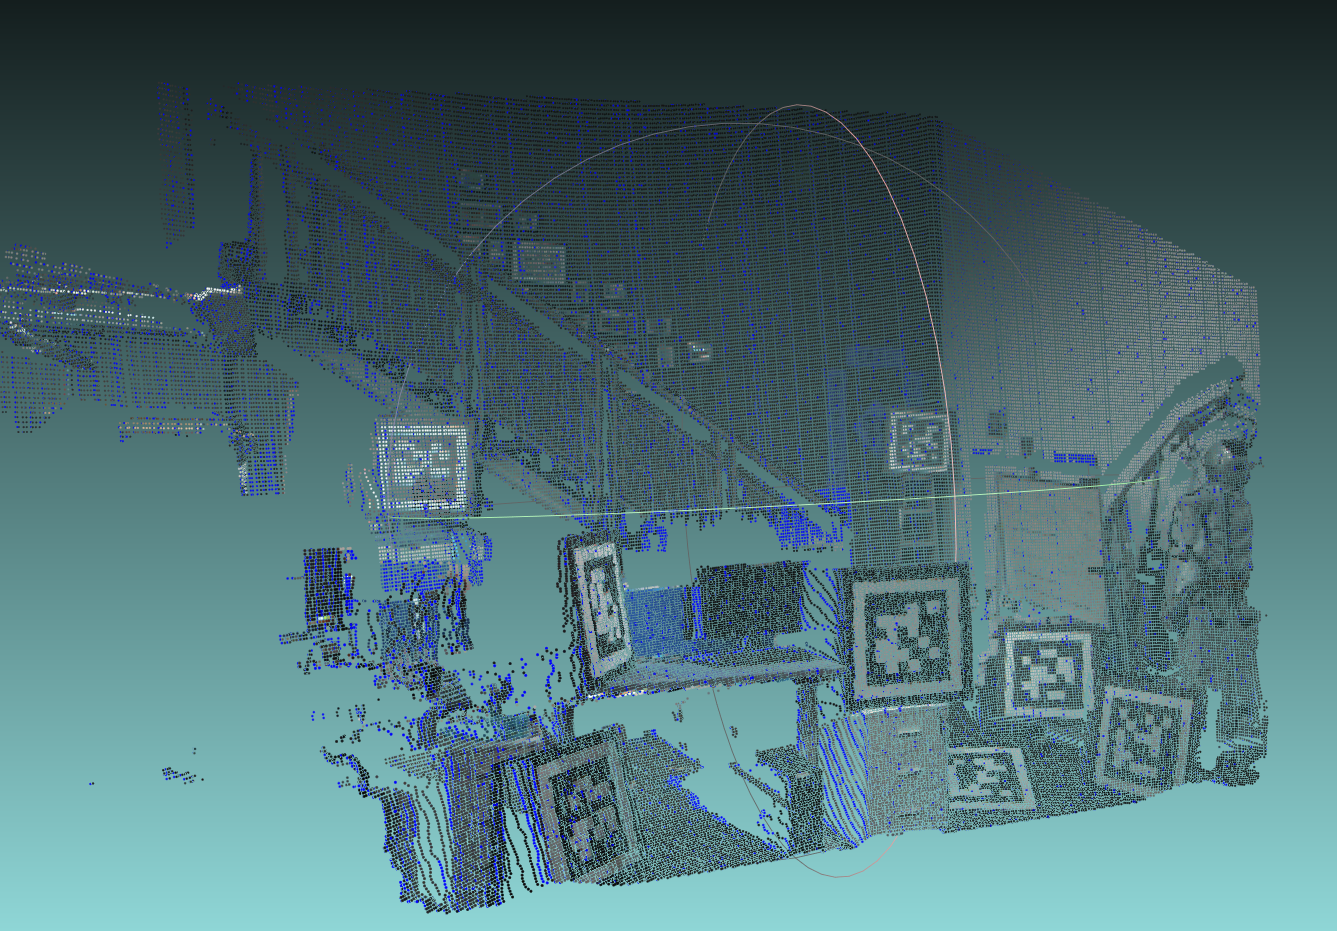
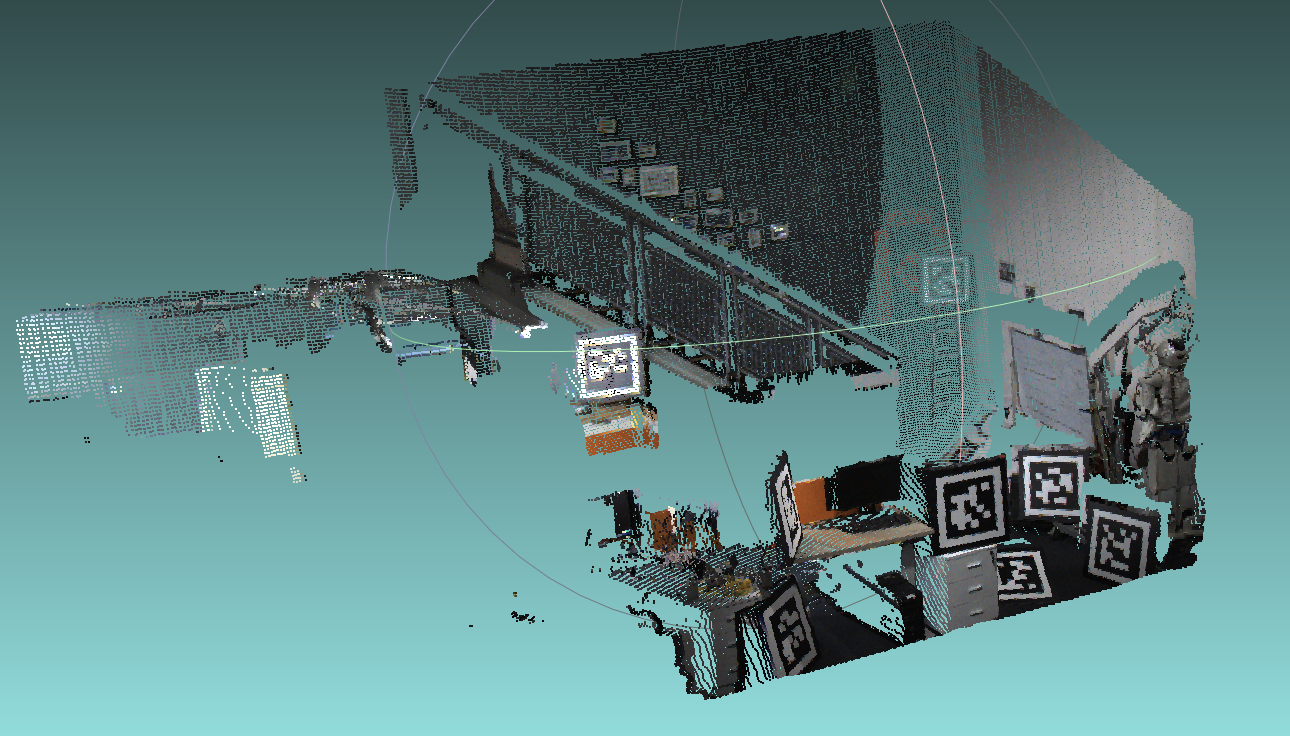
Update

diff --git a/README.md b/README.md
@@ -281,16 +281,6 @@ $codedir/texrecon/build/apps/texrecon/texrecon scene::undistorted surface-clean.
 
 
 
-#### 2021-1-4
-
-1.与长哥初步讨论论文中存在的一些语法问题
-
-	已经沟通玩
-
-2.新标定板到了,替换用新的标定板获得结果
-
-<img src="image/0104-1.png" alt="0104-1" style="zoom:25%;" />
-
 
 
 ### 核动力项目工作清单
@@ -299,7 +289,7 @@ $codedir/texrecon/build/apps/texrecon/texrecon scene::undistorted surface-clean.
 
 <img src="image/1229-3.png" alt="1229-3" style="zoom:25%;" />
 
-<img src="image/0104-2.png" alt="0104-2" style="zoom:25%;" />
+
 
 	目前标定板已经到,可以进行剩下部分的标定
 
@@ -314,4 +304,112 @@ $codedir/texrecon/build/apps/texrecon/texrecon scene::undistorted surface-clean.
 关于导航和定位模块,等核动力的小车底盘到位之后,再去迦智找人帮忙安装和测试相关的功能.
 
 等小车到位以后,硬件系统在小车的排线\安装等也需进一步考虑
+
+
+
+
+
+#### 2021-1-4
+
+1.与长哥初步讨论论文中存在的一些语法问题
+
+	已经沟通
+
+2.新标定板到了,替换用新的标定板获得结果
+
+<img src="image/0104-1.png" alt="0104-1" style="zoom:25%;" />
+
+单个激光的目前效果:
+
+<img src="image/0104-2.png" alt="0104-2" style="zoom:25%;" />
+
+先不考虑具体的激光点云的标定问题和相机激光的标定问题,先获得一个测试结果.用以给核电那边的人做一个demo
+
+
+
+3.整体流程整理
+
+	1.激光数据采集 roslaunch urg_node urg_lidar.launch
+
+	2.图像数据采集 crab_image.py
+
+	3.激光to总体点云 [这里有一个外参待优化] bash run_get_pointcloud.bash 
+
+	4.图像Apriltag检测并生成点云 bash run_apriltag_detect.bash
+
+	5.点云遮挡计算并着色 bash run_ply_occlude_coloring.bash
+
+
+
+4.剩余相机的标定
+
+	cam5:
+
+<img src="image/0104-3.png" alt="0104-3" style="zoom:25%;" />
+
+	cam1:[存在问题]
+
+<img src="image/0104-4.png" alt="0104-4" style="zoom:25%;" />
+
+	存在一定问题,需要进一步检查[内参?畸变矫正???]
+
+	很有可能是内参标定在室内的参数不佳导致,明天在室外开阔的场景进行棋盘格的重新采集
+
+
+
+
+
+#### 2021-01-05
+
+1.关于AprilTag用来标定的精度问题:
+
+	今天将五个相机都放到实验室外开阔的场景进行了重新的标定,发现,不同的标定结果对AprilTag的检测结果有较大影响,证明了用Apriltag进行位姿和标定板的位姿存在一定的误差.具体可由上图中CAM1中的结果和下图表明:
+
+
+
+	**考虑到尽快给出一个初始的效果,先用AprilTag的结果做一个demo,然后考虑用COLMAP进行SFM,标定五个相机间的POSE以及将单帧激光扫描结果和SFM获得的点云进行一个ICP配准**
+
+
+
+**CAM1:**
+
+<img src="image/cam1_result.png" alt="cam1" style="zoom:25%;" />
+
+	可以发现中心和近处的点云没有问题,但是边缘处和周围的点还是有较大问题,其余的CAM类似
+
+
+
+	粗略的完成五个相机的标定:
+
+结果点云[其中Cam1的标定貌似有一些问题,也有可能是由于物体太近导致了问题的放大]
+
+**视角1**
+
+<img src="image/0105-2.png" alt="0105-2" style="zoom:33%;" />
+
+**视角2**
+
+<img src="image/0105-3.png" alt="0105-3" style="zoom:33%;" />
+
+**视角3:该视角表明cam1有点问题**
+
+<img src="image/0105-4.png" alt="0105-4" style="zoom:33%;" />
+
+
+
+**总体俯视图:**
+
+<img src="image/0105-5.png" alt="0105-5" style="zoom:33%;" />
+
+**[TODO整体流程回顾]:**
+
+**[后续思路&TODO]**
+
+2.使用COLMAP建图进行点云配准的外参标定
+
+3.激光的外参需要加新一步优化
+
+<img src="image/0105-1.png" alt="0105-1" style="zoom:50%;" />
+
+	在经过180度的旋转之后激光存在小范围的偏差
 
